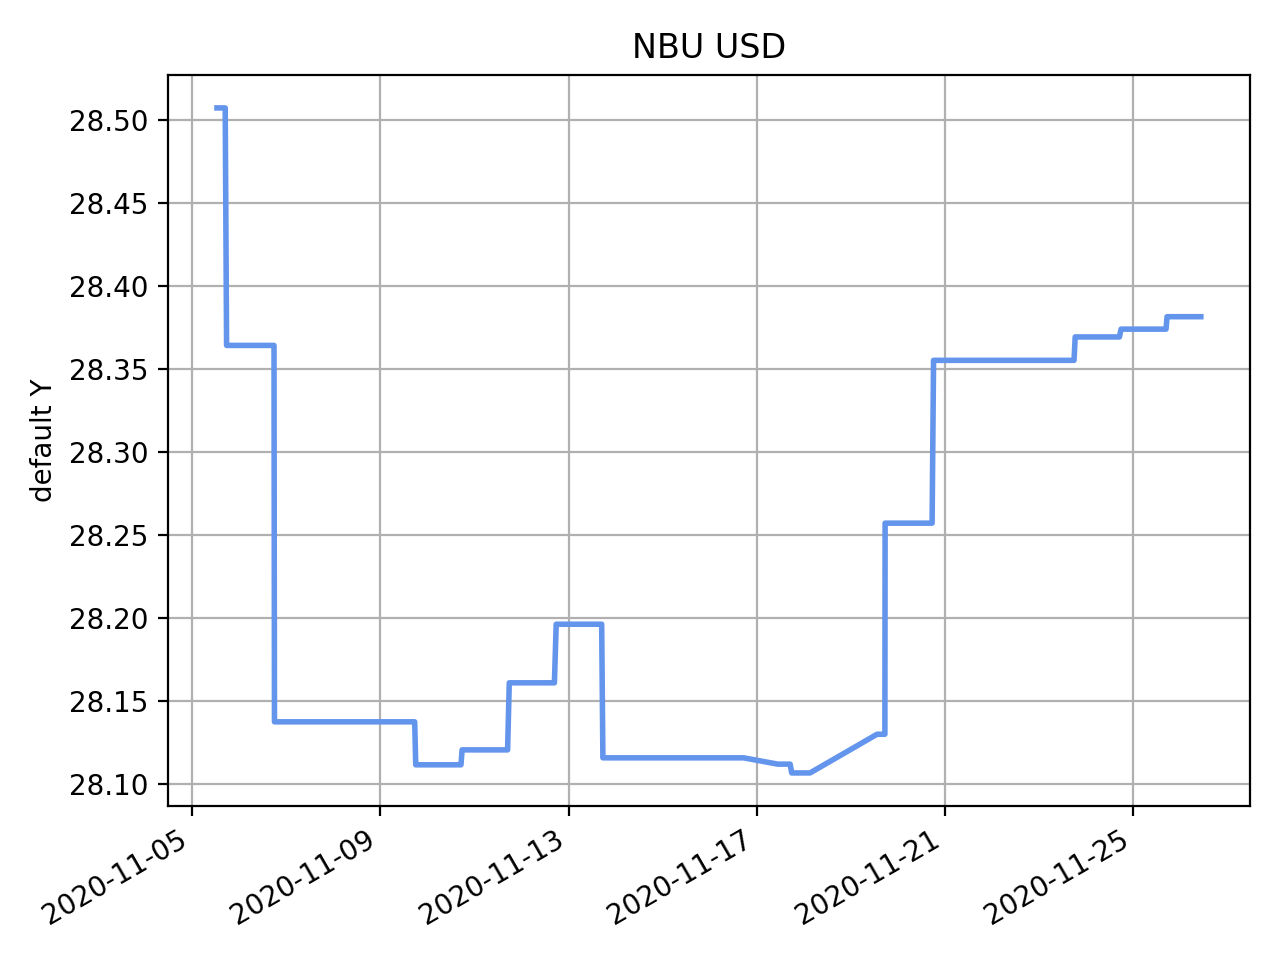
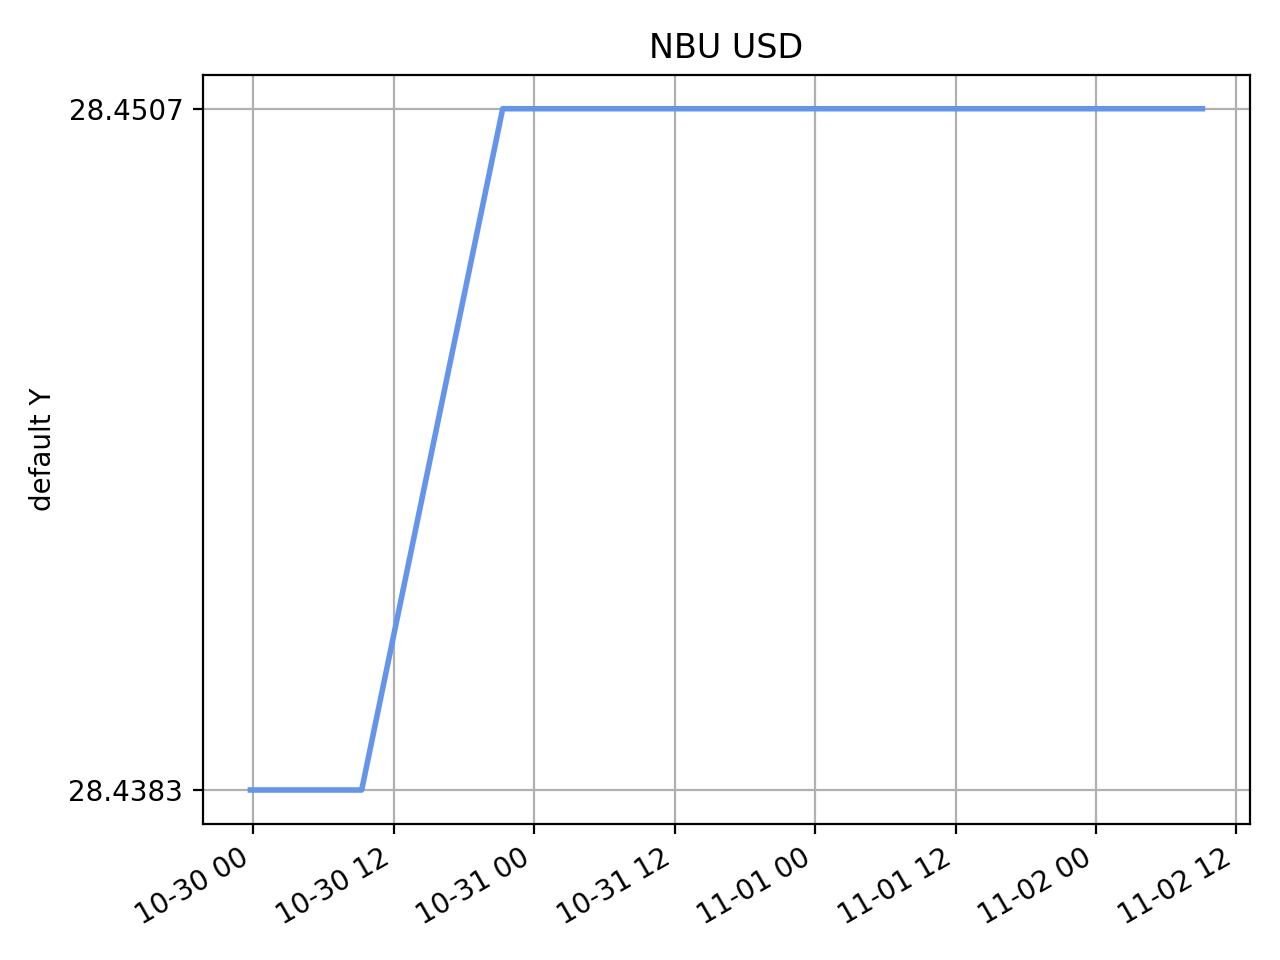
_

diff --git a/InstituteForCurrency/PressCentre.py b/InstituteForCurrency/PressCentre.py
@@ -54,35 +54,23 @@ if __name__ == '__main__':
     # NBU *************************************************************************************************
 
     data_ = press.appeal({'Question to NBU': {'MinFin': {'EUR': 'official_main'}}})
-    data_full = data_['Question to NBU']['MinFin']['EUR']
-    for i in data_full:
-        log.info(i)
-        log.info('Date: {}; Values: {}'.format(i['date'], i['official_main']))
-    # data_full = data_['Question to NBU']['MinFin']['EUR']
-    # data_official_main = [[], []]
-    # for data in data_full:
-    #     data_official_main[0].append(data['time'])
-    #     data_official_main[1].append(float(data['official_main']))
-    # GrBuild.one_plot_for_bot(Value=data_official_main, name='NBU_EUR', sensor_name='NBU EUR')
+    data_full = data_['Question to NBU']['MinFin']['EUR'][0]
+    GrBuild.one_plot_for_bot(Value=[data_full['date'], data_full['official_main']], name='NBU_EUR', sensor_name='NBU EUR')
 
-    # data_ = press.appeal({'Question to NBU': {'MinFin': {'USD': {}}}})
-    # data_full = data_['Question to NBU']['MinFin']['USD']
-    # data_official_main = [[], []]
-    # for data in data_full:
-    #     data_official_main[0].append(data['time'])
-    #     data_official_main[1].append(float(data['official_main']))
-    # GrBuild.one_plot_for_bot(Value=data_official_main, name='NBU_USD', sensor_name='NBU USD')
-    #
-    # # AUCTION **********************************************************************************************
-    #
-    # data_ = press.appeal({'Question to Auction': {'MinFin': {'USD': {}}}})
-    # data_full = data_['Question to Auction']['MinFin']['USD']
-    # data_official_main = [[], []]
-    # for data in data_full:
-    #     data_official_main[0].append(data['time'])
-    #     data_official_main[1].append(float(data['bid_main']))
-    # GrBuild.one_plot_for_bot(Value=data_official_main, name='Auction_USD_bid', sensor_name='Auction USD  BiD')
-    #
+    data_ = press.appeal({'Question to NBU': {'MinFin': {'USD': 'official_main'}}})
+    data_full_nbu = data_['Question to NBU']['MinFin']['USD'][0]
+    GrBuild.one_plot_for_bot(Value=[data_full_nbu['date'], data_full_nbu['official_main']], name='NBU_USD', sensor_name='NBU USD')
+
+    # AUCTION **********************************************************************************************
+
+    data_ = press.appeal({'Question to Auction': {'MinFin': {'USD': 'offer_main'}}})
+    data_full_auction = data_['Question to Auction']['MinFin']['USD'][0]
+    GrBuild.one_plot_for_bot(Value=[data_full_auction['date'], data_full_auction['offer_main']], name='Auction_USD_bid', sensor_name='Auction USD  BiD')
+
+    GrBuild.two_plot_for_bot(Value_1=[data_full_nbu['date'], data_full_nbu['official_main']],
+                             Value_2=[data_full_auction['date'], data_full_auction['offer_main']],
+                             name='Auction_USD_bid', sensor_name='NBU usd  Auction usd')
+
     # data_ = press.appeal({'Question to Auction': {'MinFin': {'USD': {}}}})
     # data_full = data_['Question to Auction']['MinFin']['USD']
     # data_official_main = [[], []]

diff --git a/InstituteForCurrency/Departments/NBUCurrencySources/NBUMinFin/NBUEUR.py b/InstituteForCurrency/Departments/NBUCurrencySources/NBUMinFin/NBUEUR.py
@@ -56,4 +56,5 @@ class NBUEUR(ABCMinFin, NBUEURMemento):
         """
         log.info(letter)
         log.info(self._get_spec([{'$group': {'_id': {'day': {'$dayOfYear': '$time'}}, letter: {'$push': '${}'.format(letter)}, 'date': {'$push': '$time'}}}]))
-        return self._get_spec([{'$group': {'_id': {'day': {'$dayOfYear': '$time'}}, letter: {'$push': '${}'.format(letter)}, 'date': {'$push': '$time'}}}])
+        log.info(self._get_spec([{'$group': {'_id': None, letter: {'$push': '${}'.format(letter)}, 'date': {'$push': '$time'}}}]))
+        return self._get_spec([{'$group': {'_id': None, letter: {'$push': '${}'.format(letter)}, 'date': {'$push': '$time'}}}])

diff --git a/InstituteForCurrency/Departments/AuctionSources/AuctionMinFin/AuctionUSD.py b/InstituteForCurrency/Departments/AuctionSources/AuctionMinFin/AuctionUSD.py
@@ -54,5 +54,7 @@ class AuctionUSD(ABCMinFin, AuctionUSDMemento):
         :param letter:
         :return:
         """
-        log.info(self._get_all_objects())
-        return self._get_some_obj(letter)
+        log.info(letter)
+        log.info(self._get_spec([{'$group': {'_id': {'day': {'$dayOfYear': '$time'}}, letter: {'$push': '${}'.format(letter)}, 'date': {'$push': '$time'}}}]))
+        log.info(self._get_spec([{'$group': {'_id': None, letter: {'$push': '${}'.format(letter)}, 'date': {'$push': '$time'}}}]))
+        return self._get_spec([{'$group': {'_id': None, letter: {'$push': '${}'.format(letter)}, 'date': {'$push': '$time'}}}])

diff --git a/InstituteForCurrency/Departments/NBUCurrencySources/NBUMinFin/NBUUSD.py b/InstituteForCurrency/Departments/NBUCurrencySources/NBUMinFin/NBUUSD.py
@@ -54,5 +54,7 @@ class NBUUSD(ABCMinFin, NBUUSDMemento):
         :param letter:
         :return:
         """
-        log.info(self._get_all_objects())
-        return self._get_some_obj(letter)
+        log.info(letter)
+        log.info(self._get_spec([{'$group': {'_id': {'day': {'$dayOfYear': '$time'}}, letter: {'$push': '${}'.format(letter)}, 'date': {'$push': '$time'}}}]))
+        log.info(self._get_spec([{'$group': {'_id': None, letter: {'$push': '${}'.format(letter)}, 'date': {'$push': '$time'}}}]))
+        return self._get_spec([{'$group': {'_id': None, letter: {'$push': '${}'.format(letter)}, 'date': {'$push': '$time'}}}])

diff --git a/Arsenal/GrBuild.py b/Arsenal/GrBuild.py
@@ -83,10 +83,10 @@ def two_plot_for_bot(Value_1, Value_2, name, yLabel_1=None, yLabel_2=None, datet
 
     # xValue_1, xLabel_1, pattern_for_mask_1 = _handler_xticks(Value_1[1], datetime_mode)
     # xValue_2, xLabel_2, pattern_for_mask_2 = _handler_xticks(Value_2[1], datetime_mode)
-    xValue_1 = Value_1[1]
-    xValue_2 = Value_2[1]
-    yValue_1 = Value_1[0]
-    yValue_2 = Value_2[0]
+    xValue_1 = Value_1[0]
+    xValue_2 = Value_2[0]
+    yValue_1 = Value_1[1]
+    yValue_2 = Value_2[1]
 
     # search min and max
     if yLabel_1 == yLabel_2 and yLabel_1:
